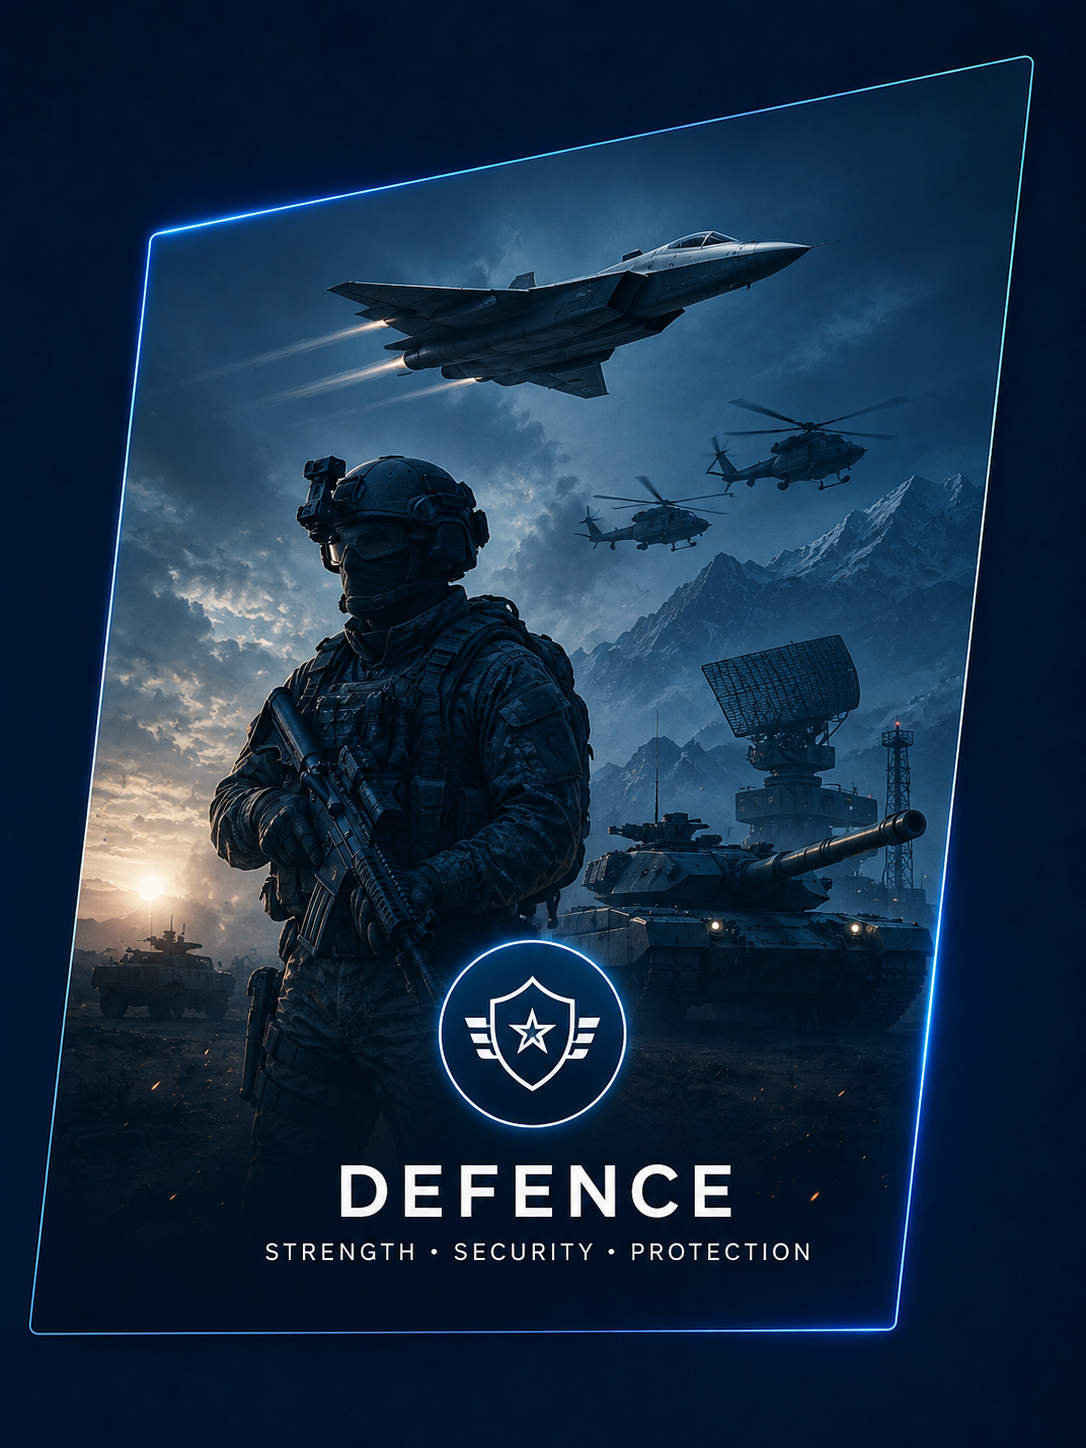
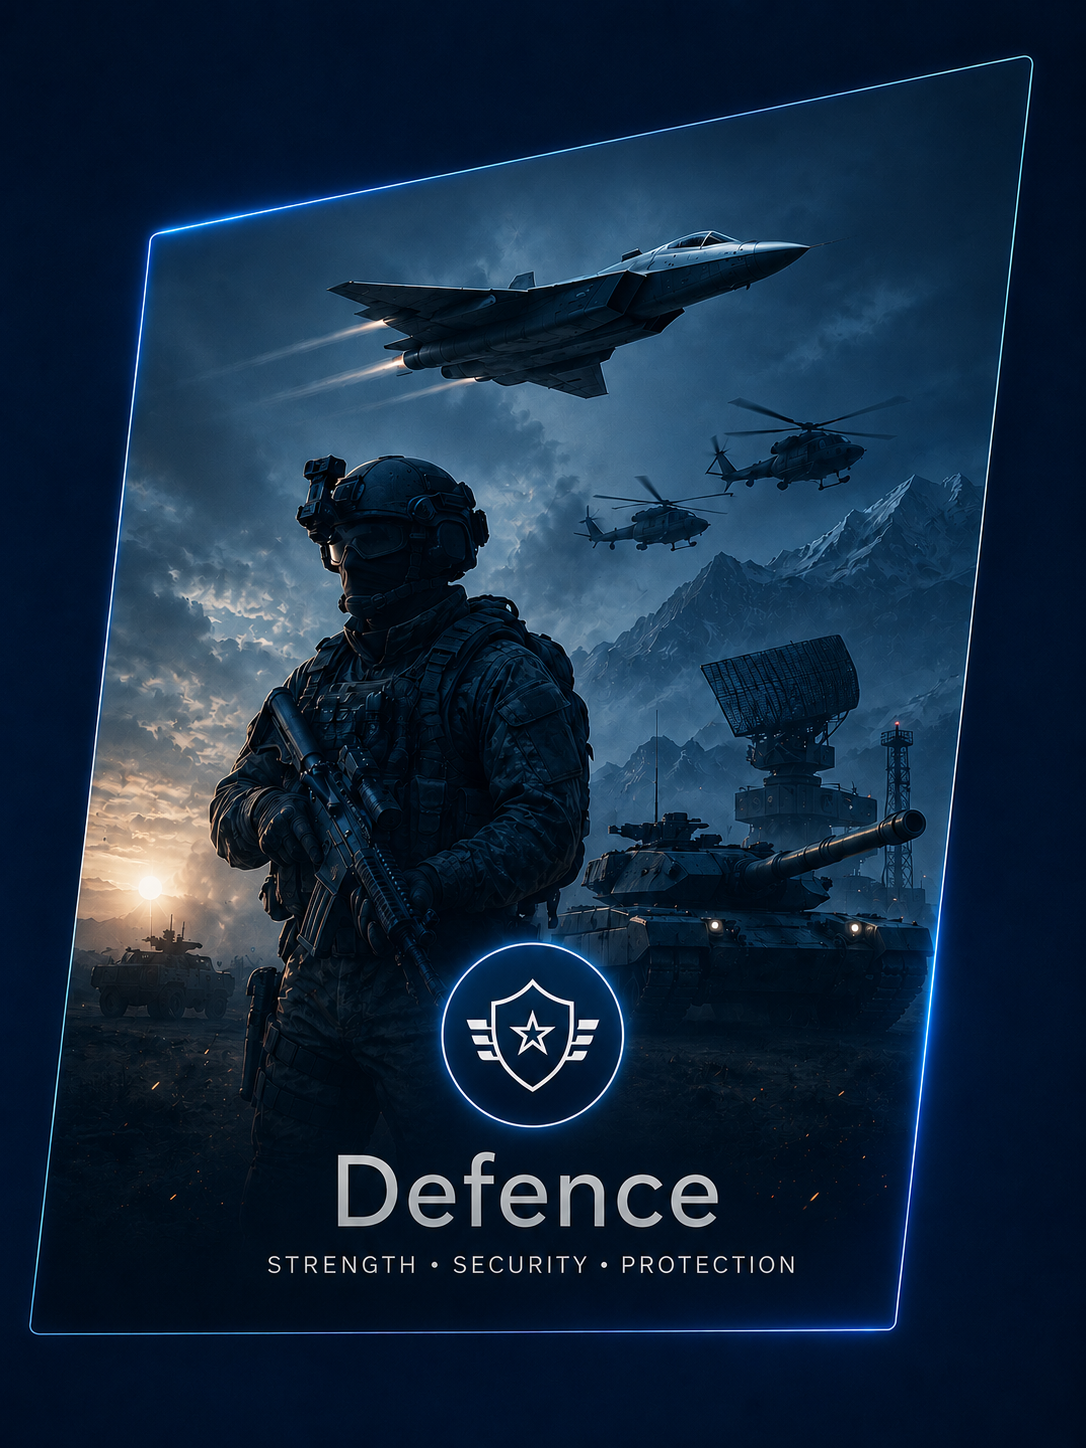
defence image change and title

diff --git a/app/layout.tsx b/app/layout.tsx
@@ -23,8 +23,8 @@ const geistMono = Geist_Mono({
 });
 
 export const metadata: Metadata = {
-  title: "Your Website",
-  description: "Your website description",
+  title: " Detailed Engineering, CAE, Pipeline, FEA, CFD Simulations & Research and Development-ProSIM",
+  description: "Discover ProSIM Bangalore's home for CAE, FEA and engineering outsourcing services, including piping design, seismic qualification and structural integrity assessment for global clients.",
 };
 
 export default function RootLayout({
